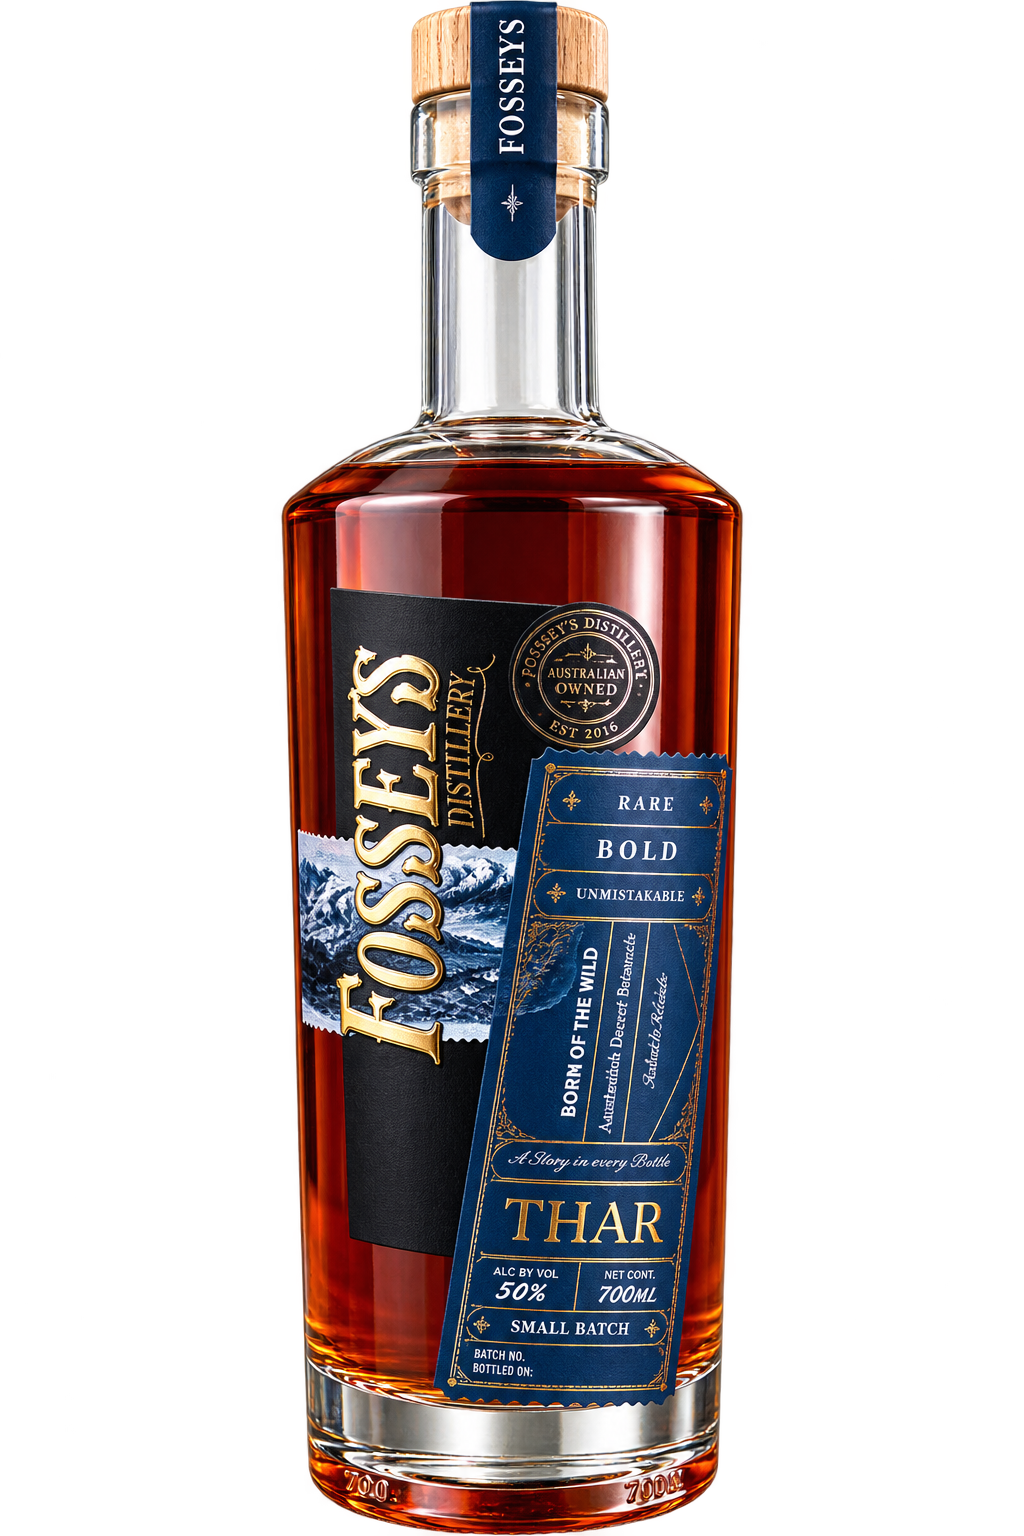
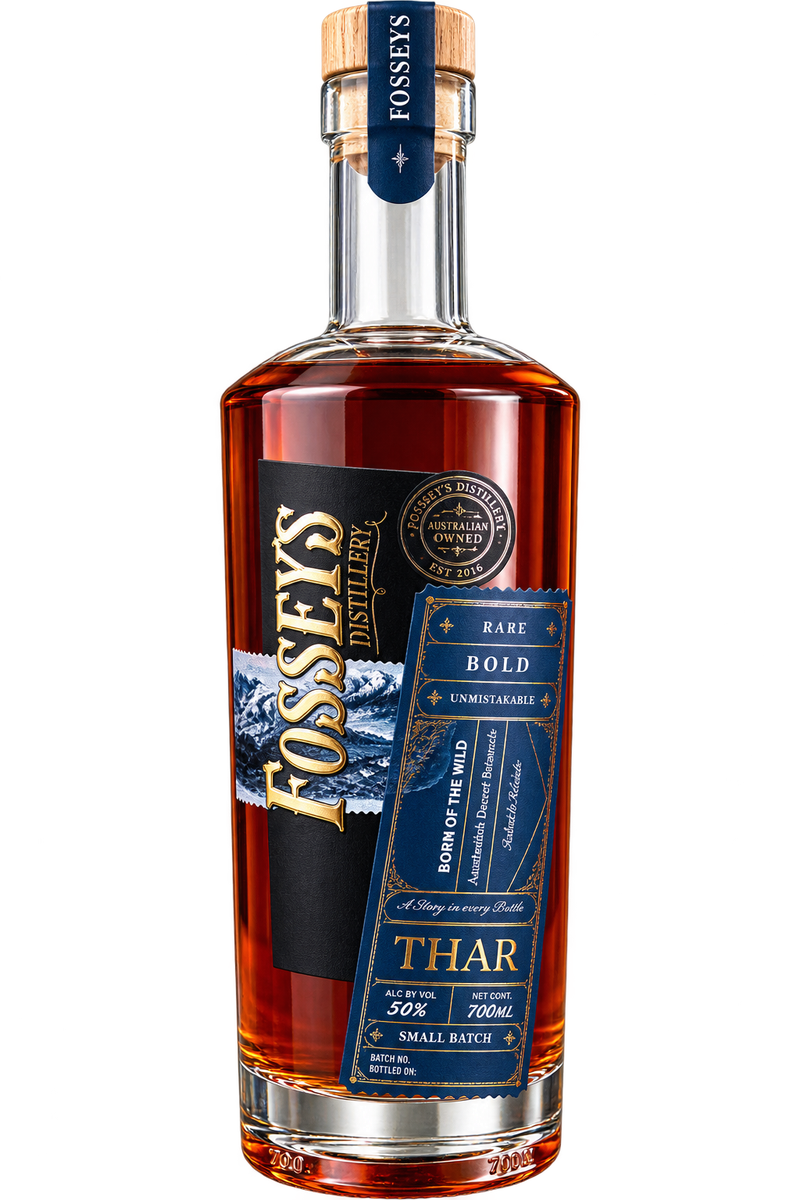
Shop: convert product photos to WebP, fix checkerboard backgrounds, tidy whisky titles
- Convert all 20 product packshot images to WebP (quality 82), cutting
  combined payload from ~11.7MB to ~2MB for faster shop page loads.
- Remove baked-in transparency-checkerboard artifacts from three newly
  uploaded photos (Ikka, Black Velvet Vodka, Kala Khatta) via connected-
  component background detection, restoring clean cutouts.
- Wire in a real photo for Black Velvet Vodka (was on a venue placeholder).
- Restore saffron-vodka image, which had gone missing from disk.
- Add loading="lazy"/decoding="async" to remaining shop <img> tags.
- Rename "Thar \"Sherry\" Whisky" -> "Thar Whisky" and "Ikka \"French\" Whisky"
  -> "Ikka Whisky", moving the sherry/French-oak detail into each description.

Changed region(s): [[0.4688, 0.7092, 0.5, 0.7708], [0.4375, 0.8633, 0.5, 0.8942], [0.5938, 0.4008, 0.625, 0.4317]]

diff --git a/frontend/src/data/index.js b/frontend/src/data/index.js
@@ -408,7 +408,7 @@ export const SPIRITS = [
     price: 5999,
     category: "retail",
     section: "Gin",
-    image: "/img/original-gin-min.png",
+    image: "/img/original-gin-min.webp",
     packshot: true,
     badge: "Flagship",
   },
@@ -423,7 +423,7 @@ export const SPIRITS = [
     price: 8800,
     category: "retail",
     section: "Gin",
-    image: "/img/desert-lime-gin-min.png",
+    image: "/img/desert-lime-gin-min.webp",
     packshot: true,
   },
   {
@@ -437,7 +437,7 @@ export const SPIRITS = [
     price: 9500,
     category: "retail",
     section: "Gin",
-    image: "/img/navel-strength-gin-min.png",
+    image: "/img/navel-strength-gin-min.webp",
     packshot: true,
     badge: "High Proof",
   },
@@ -491,7 +491,7 @@ export const SPIRITS = [
     price: 7500,
     category: "retail",
     section: "Gin",
-    image: "/img/xmas-pud-gin.png",
+    image: "/img/xmas-pud-gin.webp",
     packshot: true,
     badge: "Seasonal",
   },
@@ -519,7 +519,7 @@ export const SPIRITS = [
     price: 7500,
     category: "retail",
     section: "Gin",
-    image: "/img/grapefruit-gin.png",
+    image: "/img/grapefruit-gin.webp",
     packshot: true,
   },
   {
@@ -549,7 +549,7 @@ export const SPIRITS = [
     price: 4200,
     category: "retail",
     section: "Vodka",
-    image: "/img/original-vodka.png",
+    image: "/img/original-vodka.webp",
     packshot: true,
   },
   {
@@ -577,7 +577,7 @@ export const SPIRITS = [
     price: 6999,
     category: "retail",
     section: "Vodka",
-    image: "/img/blood-orange.png",
+    image: "/img/blood-orange.webp",
     packshot: true,
     badge: "Best Seller",
   },
@@ -594,7 +594,7 @@ export const SPIRITS = [
     price: 16000,
     category: "retail",
     section: "Whisky",
-    image: "/img/singlemalt1.png",
+    image: "/img/singlemalt1.webp",
     packshot: true,
   },
   {
@@ -622,36 +622,36 @@ export const SPIRITS = [
     price: 8999,
     category: "retail",
     section: "Whisky",
-    image: "/img/the-malwa.png",
+    image: "/img/the-malwa.webp",
     packshot: true,
   },
   {
     id: "WHISKY_THAR",
-    name: "Thar \"Sherry\" Whisky",
+    name: "Thar Whisky",
     tagline: "Rare, bold and unmistakable.",
     description:
-      "A rare, bold and unmistakable whisky born of the wild, sherry cask matured for depth and character. Aged in barrel, distilled in Australia. Small batch, 50% ABV.",
+      "A rare, bold and unmistakable whisky born of the wild. Sherry cask matured for depth and character, aged in barrel, distilled in Australia. Small batch, 50% ABV.",
     abv: "50%",
     size: "700ml",
     price: 19900,
     category: "retail",
     section: "Whisky",
-    image: "/img/thar.png",
+    image: "/img/thar.webp",
     packshot: true,
     badge: "Small Batch",
   },
   {
     id: "WHISKY_IKKA",
-    name: "Ikka \"French\" Whisky",
+    name: "Ikka Whisky",
     tagline: "One above all, a rare batch release.",
     description:
-      "A rare batch whisky aged in barrel and distilled in Australia, handcrafted and pure. Bold, warming and built to be savoured slowly. 60% ABV.",
+      "A rare batch whisky aged in French oak barrel and distilled in Australia, handcrafted and pure. Bold, warming and built to be savoured slowly. 60% ABV.",
     abv: "60%",
     size: "700ml",
     price: 29900,
     category: "retail",
     section: "Whisky",
-    image: "/img/ikka-whisky.png",
+    image: "/img/ikka-whisky.webp",
     packshot: true,
     badge: "Rare Batch",
   },
@@ -724,7 +724,7 @@ export const SPIRITS = [
     price: 6999,
     category: "retail",
     section: "Indian Series",
-    image: "/img/mango-gin.png",
+    image: "/img/mango-gin.webp",
     packshot: true,
     badge: "Indian Series",
   },
@@ -739,7 +739,7 @@ export const SPIRITS = [
     price: 6999,
     category: "retail",
     section: "Indian Series",
-    image: "/img/jamun-gin.png",
+    image: "/img/jamun-gin.webp",
     packshot: true,
     badge: "Indian Series",
   },
@@ -768,7 +768,7 @@ export const SPIRITS = [
     price: 6999,
     category: "retail",
     section: "Indian Series",
-    image: "/img/lahori-jeera-gin.png",
+    image: "/img/lahori-jeera-gin.webp",
     packshot: true,
     badge: "Indian Series",
   },
@@ -796,7 +796,7 @@ export const SPIRITS = [
     price: 6999,
     category: "retail",
     section: "Indian Series",
-    image: "/img/rose-lychee-gin.png",
+    image: "/img/rose-lychee-gin.webp",
     packshot: true,
     badge: "Indian Series",
   },
@@ -811,7 +811,7 @@ export const SPIRITS = [
     price: 6999,
     category: "retail",
     section: "Indian Series",
-    image: "/img/saffron-vodka.png",
+    image: "/img/saffron-vodka.webp",
     packshot: true,
     badge: "Indian Series",
   },
@@ -826,7 +826,7 @@ export const SPIRITS = [
     price: 6999,
     category: "retail",
     section: "Indian Series",
-    image: "/img/paan-vodka.png",
+    image: "/img/paan-vodka.webp",
     packshot: true,
     badge: "Indian Series",
   },
@@ -841,7 +841,7 @@ export const SPIRITS = [
     price: 6999,
     category: "retail",
     section: "Indian Series",
-    image: "/img/popcorn-vodka.png",
+    image: "/img/popcorn-vodka.webp",
     packshot: true,
     badge: "Indian Series",
   },
@@ -856,7 +856,8 @@ export const SPIRITS = [
     price: 6999,
     category: "retail",
     section: "Vodka",
-    image: "/img/real_still.jpg",
+    image: "/img/black-velvet-vodka.webp",
+    packshot: true,
   },
   {
     id: "IND_KALA_KHATTA",
@@ -869,7 +870,7 @@ export const SPIRITS = [
     price: 6999,
     category: "retail",
     section: "Indian Series",
-    image: "/img/kala-khatta-vodka.png",
+    image: "/img/kala-khatta-vodka.webp",
     packshot: true,
     badge: "Indian Series",
   },

diff --git a/frontend/src/pages/Shop.js b/frontend/src/pages/Shop.js
@@ -254,7 +254,7 @@ export default function Shop() {
                 {lines.length === 0 && <p className="text-smoke text-center mt-16">Your cart is empty.</p>}
                 {lines.map((l) => (
                   <div key={l.id} className="flex gap-4" data-testid={`cart-line-${l.id}`}>
-                    <img src={l.image || "/img/shop_bottles.jpg"} alt={l.name} className="w-16 h-20 object-cover rounded-lg border hairline" />
+                    <img src={l.image || "/img/shop_bottles.jpg"} alt={l.name} loading="lazy" decoding="async" className="w-16 h-20 object-cover rounded-lg border hairline" />
                     <div className="flex-1">
                       <h4 className="text-sm leading-tight">{l.name}</h4>
                       <p className="text-amber text-sm mt-1">{formatPrice(l.price)}</p>

diff --git a/frontend/src/components/SpiritDialog.js b/frontend/src/components/SpiritDialog.js
@@ -105,6 +105,7 @@ export default function SpiritDialog({ spirit, onClose, onAdd }) {
                     {/* ── Imagery ── */}
                     <div className={`relative overflow-hidden flex items-center justify-center aspect-[4/5] sm:aspect-auto sm:min-h-[420px] ${spirit.packshot ? "bg-gradient-to-b from-white/[0.06] via-ink to-ink" : "bg-ink"}`}>
                       <img src={spirit.image || "/img/shop_bottles.jpg"} alt={`Fossey's ${spirit.name}`}
+                        decoding="async"
                         onError={(e) => { if (!e.currentTarget.src.includes("shop_bottles")) e.currentTarget.src = "/img/shop_bottles.jpg"; }}
                         className={spirit.packshot
                           ? "max-h-[340px] w-auto object-contain drop-shadow-[0_18px_38px_rgba(0,0,0,0.55)]"
